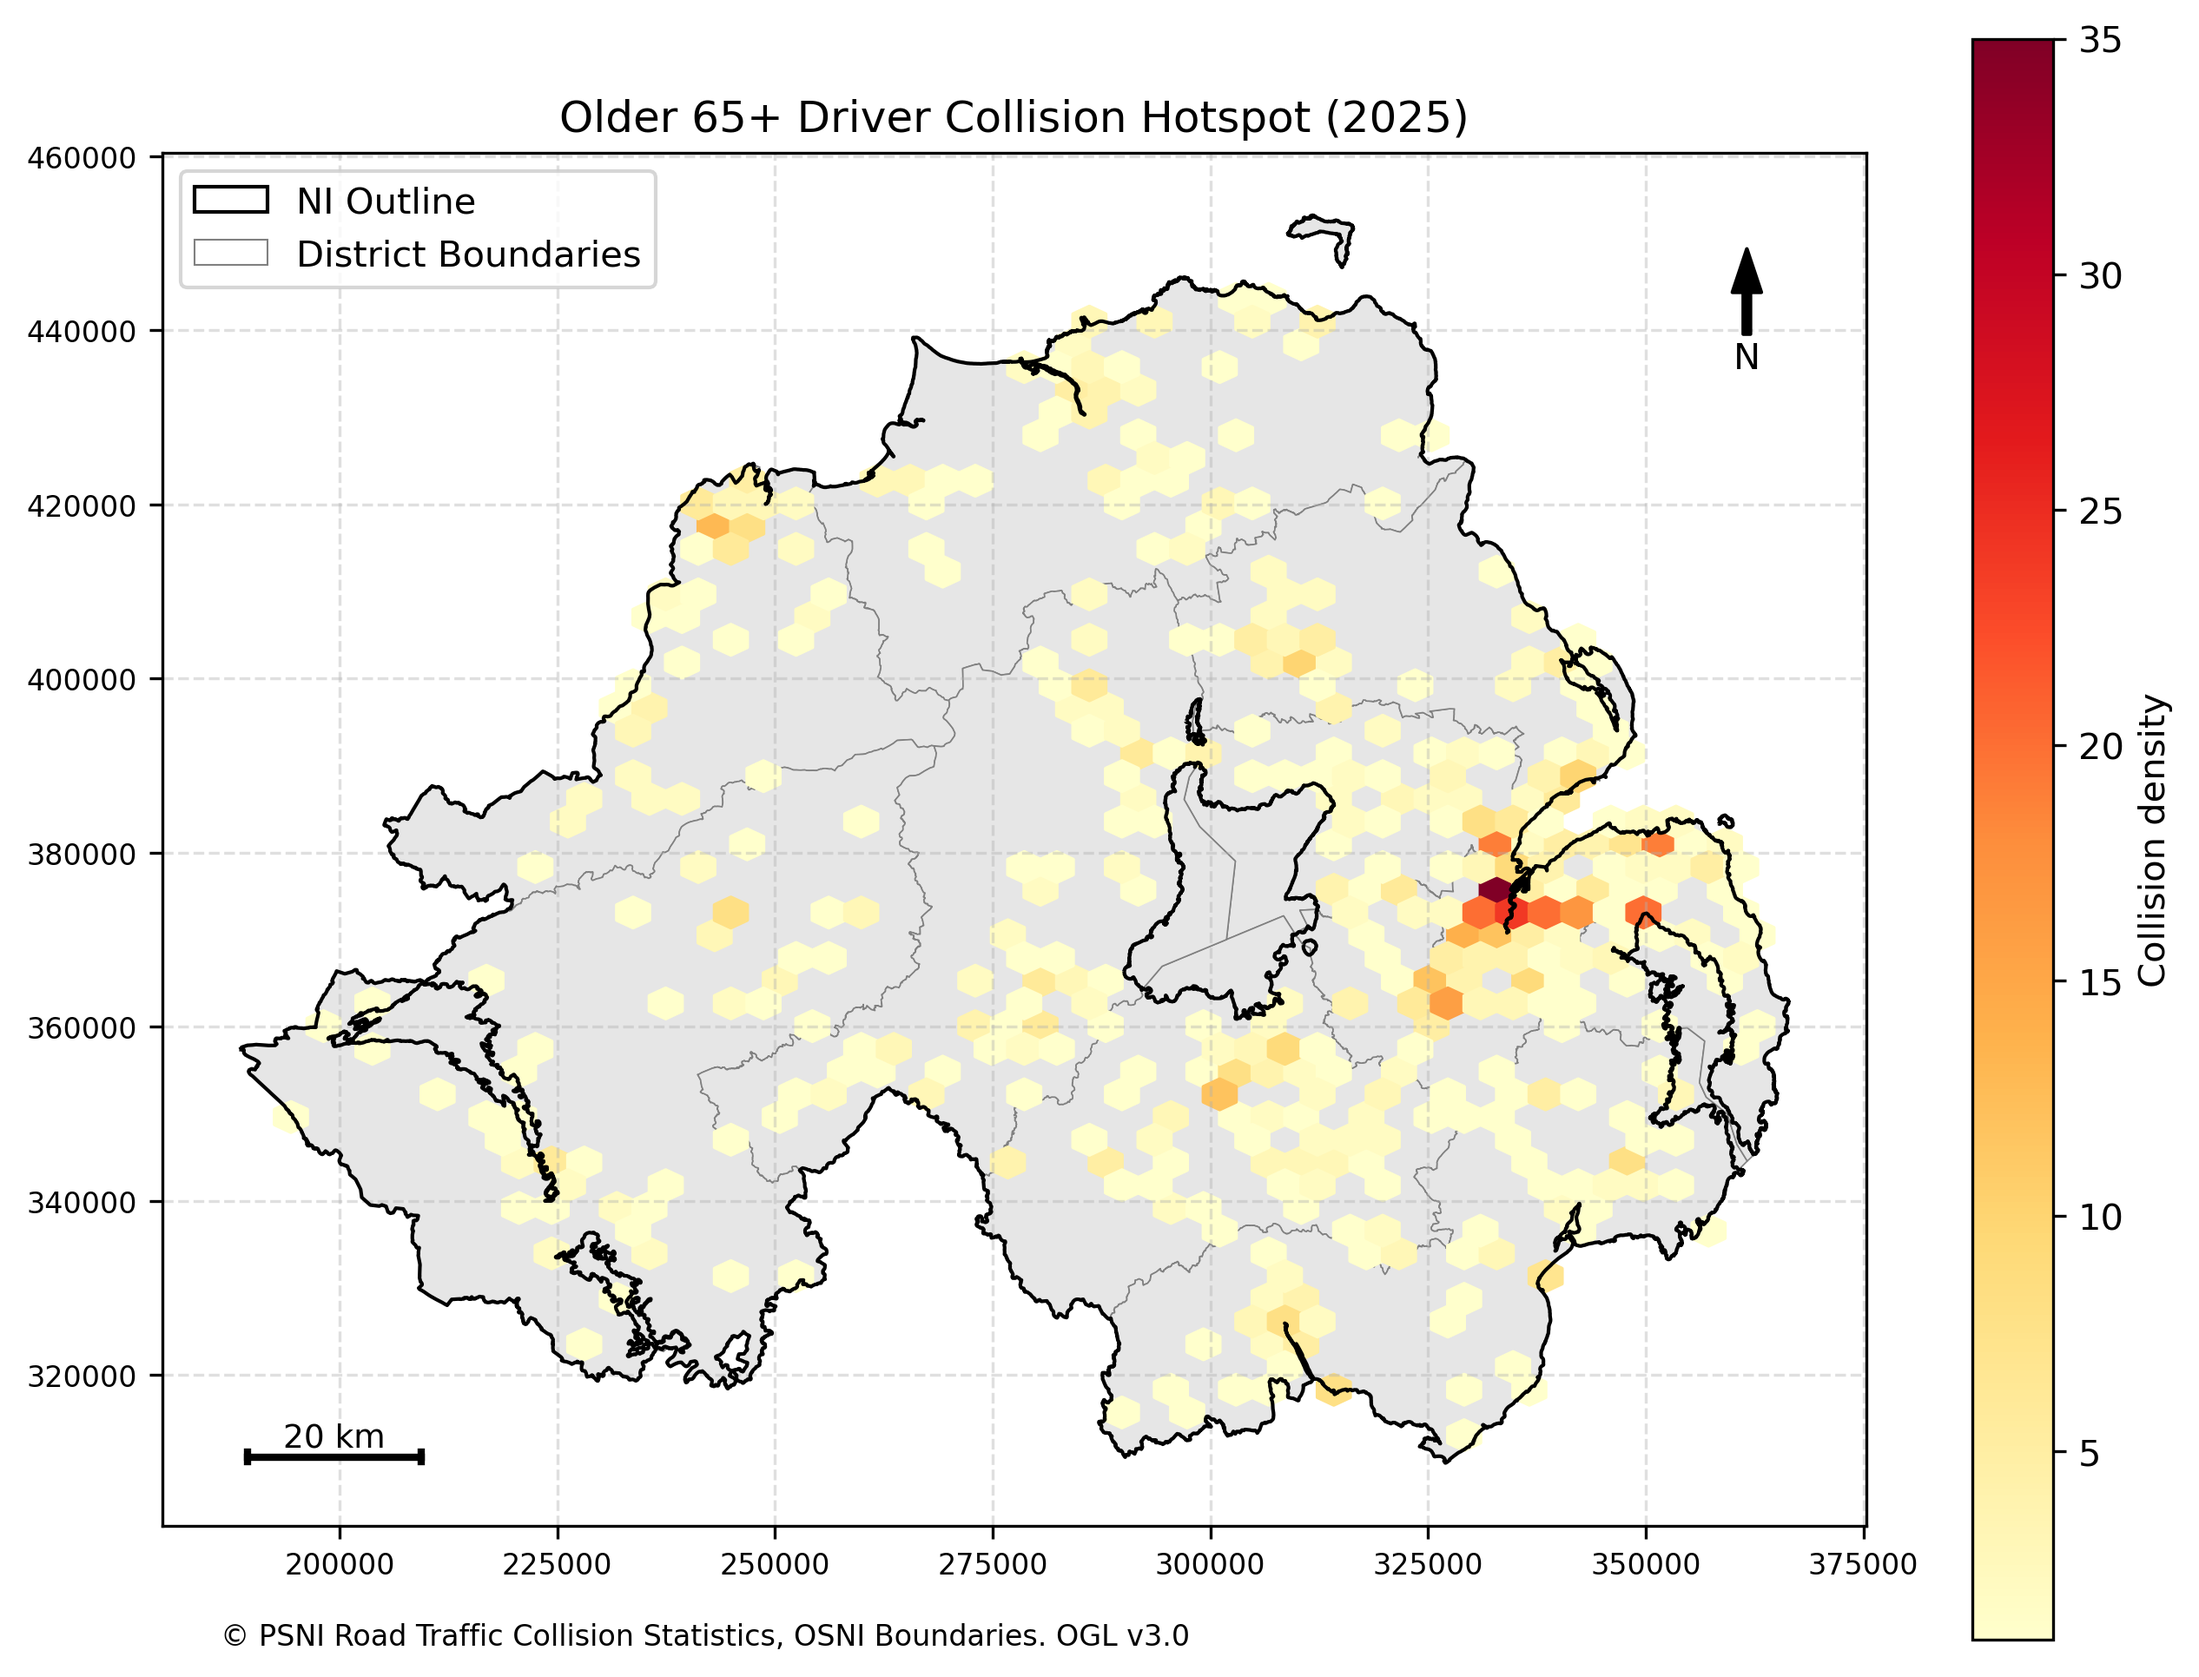
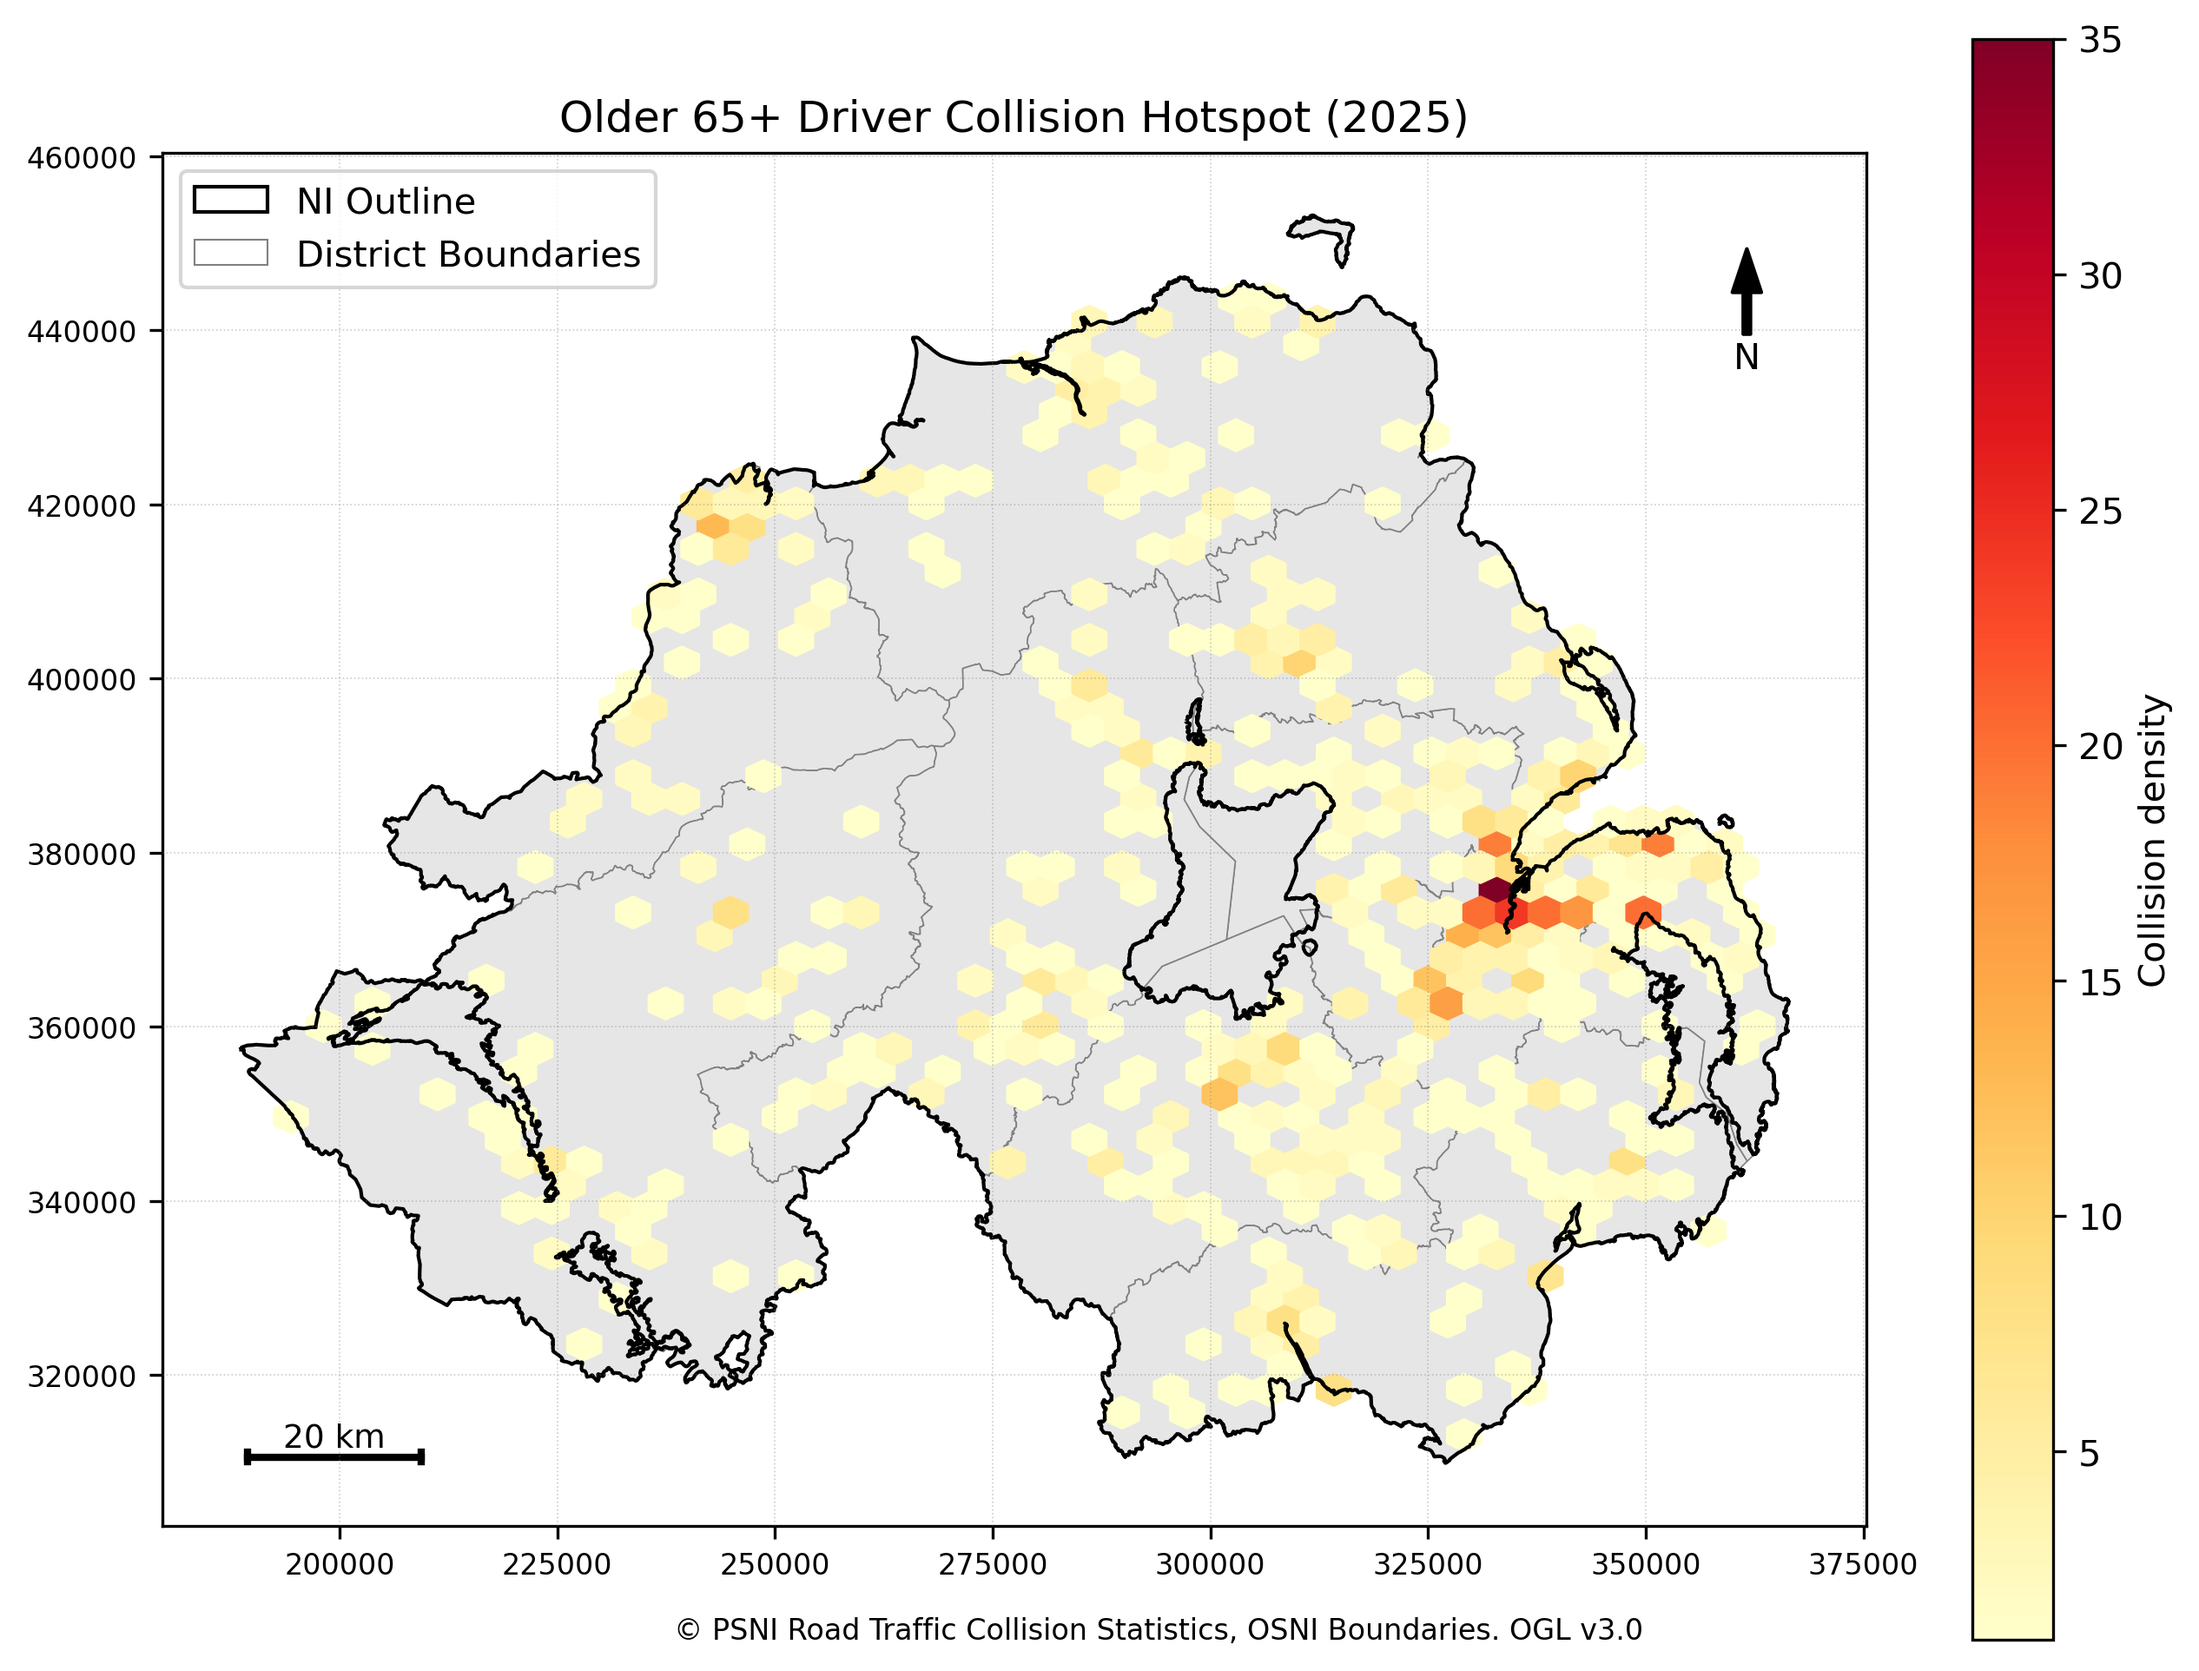
adding grids to map elements
moving copyright text to the center and adding grids to map elements so it's not repeating

diff --git a/ni_collision_analysis.py b/ni_collision_analysis.py
@@ -34,7 +34,7 @@ def get_year_file_paths(data_dir, year):
 COLLISION_CSV, CASUALTY_CSV, VEHICLE_CSV = get_year_file_paths(DATA_DIR, YEAR)
 
 # Creating function to add north arrow, scale bar and source text to maps
-def add_map_elements(ax,
+def add_map_elements(ax, show_grid=True,
                      source_text="© PSNI Road Traffic Collision Statistics, OSNI Boundaries. OGL v3.0",
                      scale_length=20000):
 
@@ -43,12 +43,15 @@ def add_map_elements(ax,
 
     Parameters:
     - ax: matplotlib axis
+    - show_grid: show the grid (True) or not (False)
     - source_text: text shown at bottom of figure
     - scale_length: scale bar length in metres (EPSG:29901 uses metres)
 
     Returns:
     - None. Adds map elements directly to the matplotlib axis (add_map_elements(ax))
     """
+    # Gridlines
+    if show_grid: ax.grid(True, linestyle=":", alpha=0.4, color="grey", linewidth=0.4), ax.set_axisbelow(False)
 
     # North arrow
     ax.annotate("N",xy=(0.93, 0.93),xytext=(0.93, 0.85),arrowprops=dict(facecolor="black",width=2,headwidth=8),
@@ -76,7 +79,7 @@ def add_map_elements(ax,
             f"{int(scale_length / 1000)} km", ha="center", fontsize=9)
 
     # Source text
-    plt.figtext(0.10,0.02,source_text,fontsize=8)
+    plt.figtext(0.50,0.02,source_text,ha="center", va="bottom",fontsize=8)
 
 # Adding boundary legend to the hotspot and choropleth maps
 def add_boundary_legend(ax, outline_label="NI Outline", district_label="District Boundaries"):
@@ -151,9 +154,6 @@ def create_choropleth_map(districts, severity_table, outline, output_dir, year,
     # Axis styling
     ax.tick_params(axis="both", labelsize=8)
 
-    # Add dashed gridlines
-    plt.grid(axis="both", linestyle="--", alpha=0.4)
-
     # Add north arrow, source, scale
     add_map_elements(ax)
 
@@ -225,7 +225,6 @@ def create_bar_chart(series, output_dir, year,title, xlabel, ylabel,output_filen
     plt.title(f"{title} ({year})")
     plt.xlabel(xlabel)
     plt.ylabel(ylabel)
-    plt.grid(axis="x", linestyle="--", alpha=0.7)
     plt.tight_layout()
 
     plt.savefig(output_dir / output_filename, dpi=300)
@@ -272,8 +271,6 @@ def create_driver_agegroup_hotspot(joined_vehicles, districts, outline, output_d
 
     ax.set_title(f"{agegroup_label} Driver Collision Hotspot ({year})")
     ax.tick_params(axis="both", labelsize=8)
-
-    plt.grid(axis="both", linestyle="--", alpha=0.4)
 
     add_map_elements(ax)
 
@@ -332,9 +329,6 @@ ax.legend(handles=[outline_patch, district_patch, fatal_patch, serious_patch, sl
 
 # Make coordinate numbers smaller
 ax.tick_params(axis="both", labelsize=8)
-
-# Add dashed gridlines
-plt.grid(axis="both", linestyle="--", alpha=0.4)
 
 # Adding north arrow, scale and source
 add_map_elements(ax)
@@ -453,7 +447,6 @@ plt.title(f"Collision Severity by District ({YEAR})")
 plt.xlabel("District")
 plt.ylabel("Number of collisions")
 plt.legend(title="Severity")
-plt.grid(axis="y", linestyle="--", alpha=0.7)
 plt.tight_layout()
 plt.savefig(OUTPUT_DIR / f"{YEAR}_GRAPH_severity_by_district.png", dpi=300)
 plt.close()
